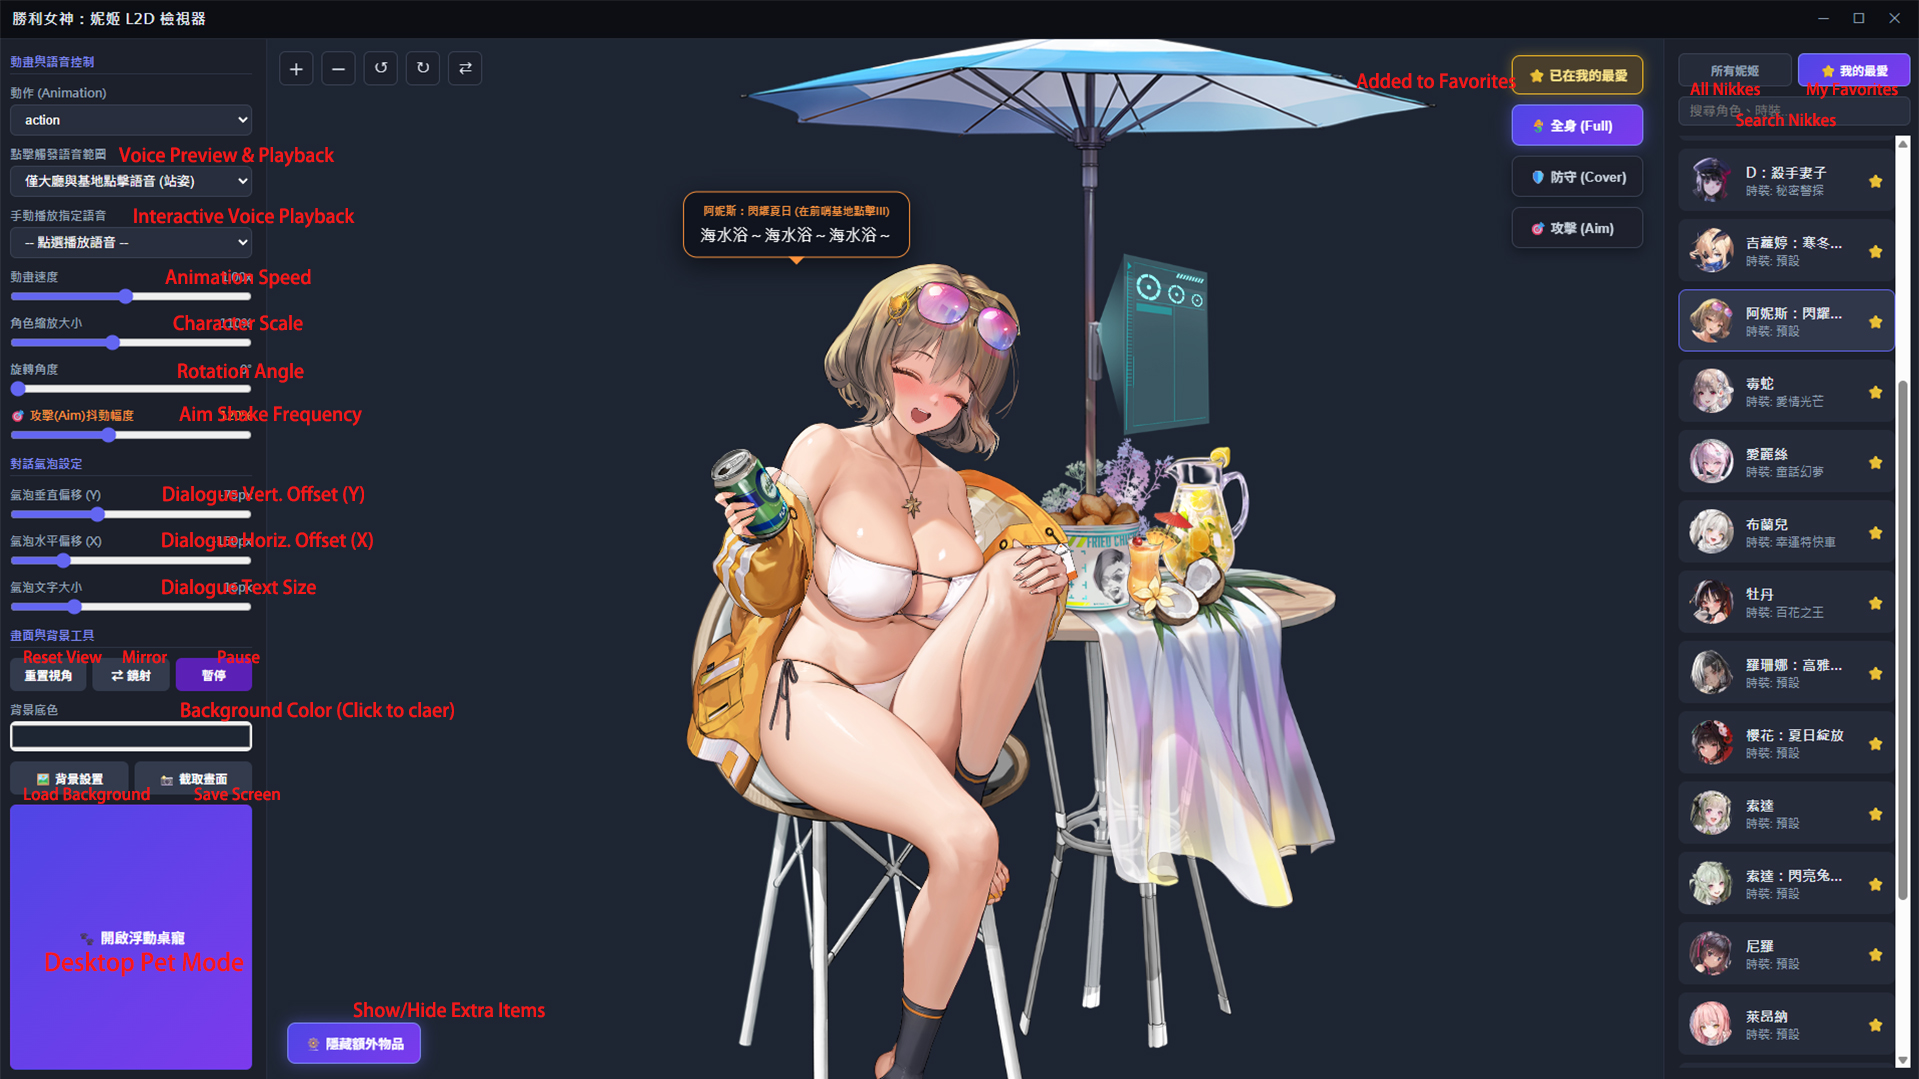
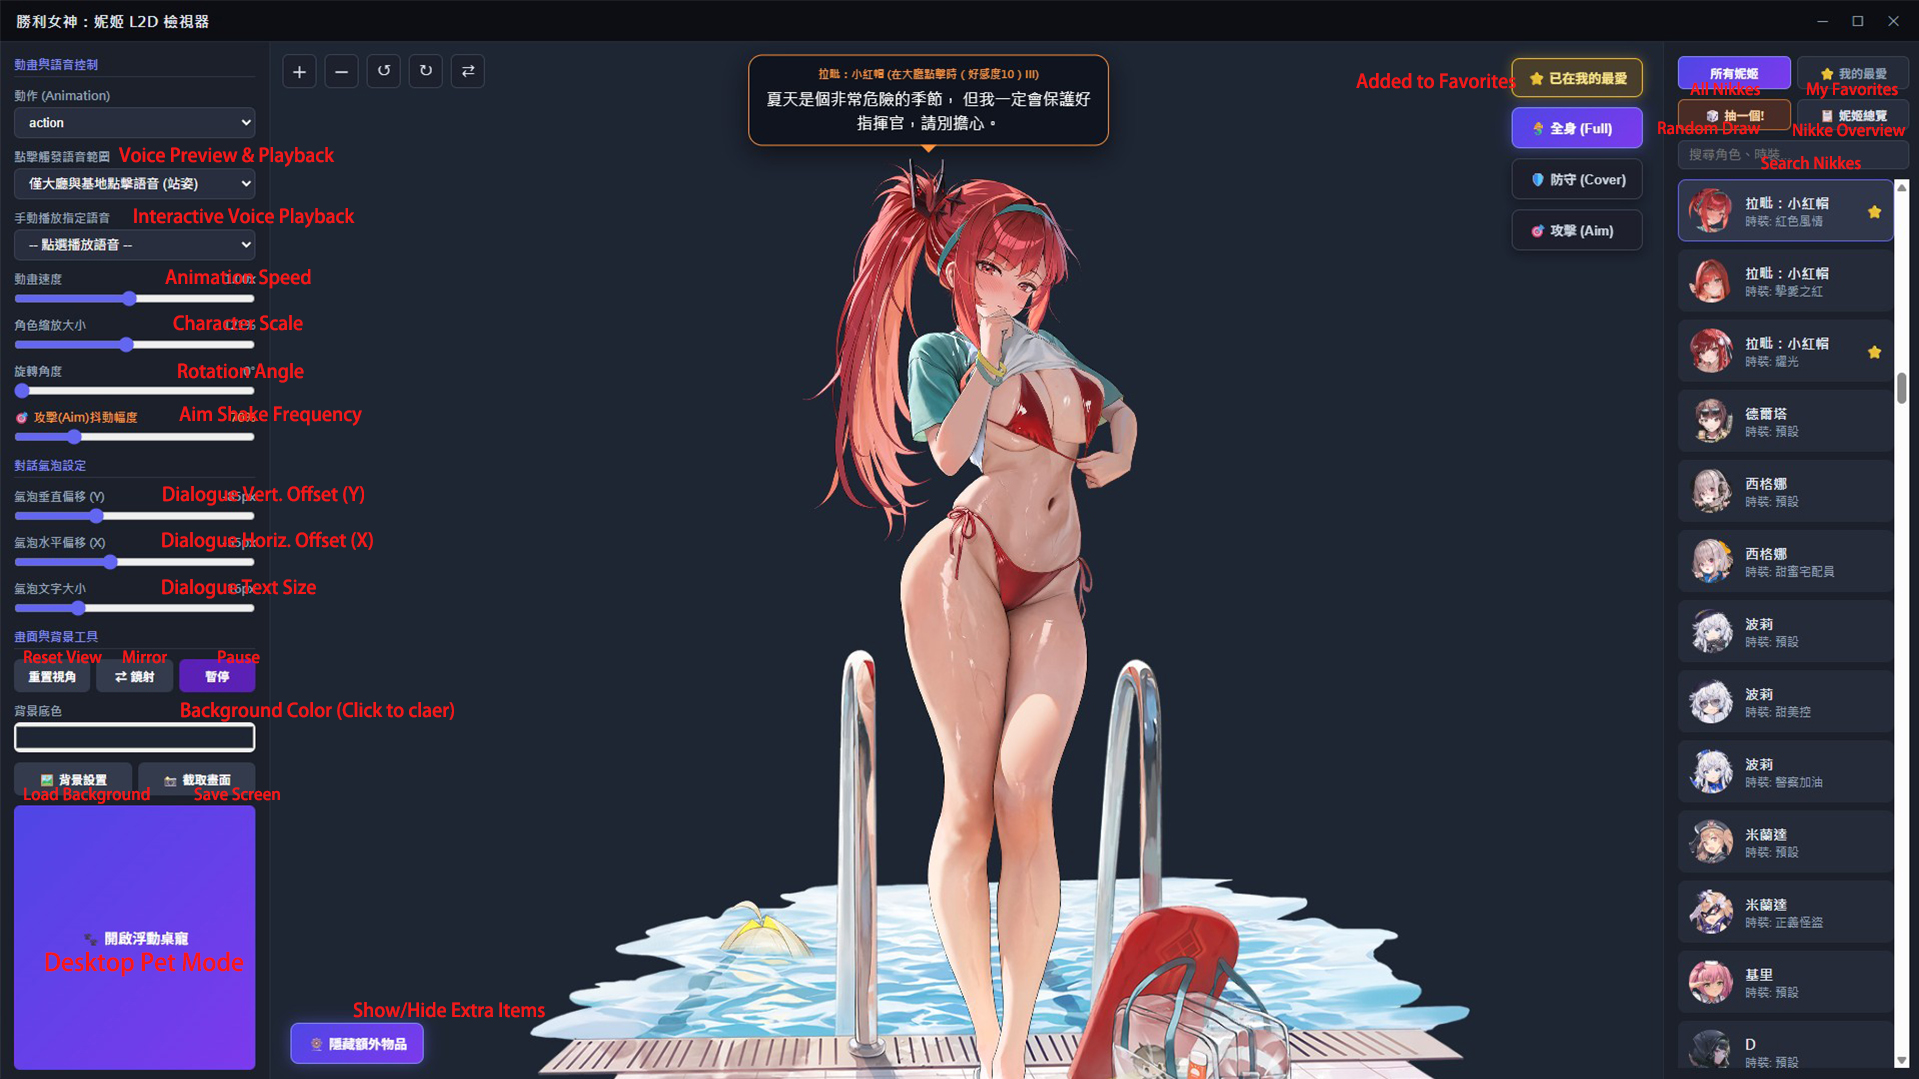
Ver1.2.0 update

diff --git a/README.md b/README.md
@@ -43,19 +43,23 @@
 * **智慧滑鼠穿透**：一鍵隱藏主控台，讓妮姬直接置頂站在 Windows 桌面上！滑鼠移到透明區域時可直接穿透點擊後方桌面圖示或視窗；移到妮姬身上時則可拖曳位置或點擊互動。
 * **定時主動觸發表情/動作**：桌寵模式下每隔 15~20 秒會自動隨機變換表情（`expression_X`）或執行換彈/射擊動作。
 * **滑鼠游標跟隨瞄準（攻擊模式桌寵）**：在攻擊姿態下進入桌寵模式，妮姬會即時偵測全局滑鼠座標（`aim_x` / `aim_y`），隨著你的滑鼠游標轉動身體與槍口！
-* **桌寵模式右鍵選單**：在浮動桌寵模式下，直接對妮姬點擊滑鼠右鍵即可彈出「姿態模式切換選單」，無須返回主控台即可隨時切換「全身 (Full) / 防守 (Cover) / 攻擊 (Aim)」，並具備自動縮放補償與螢幕邊界防呆鎖定。
+* **桌寵模式右鍵選單**：在浮動桌寵模式下，直接對妮姬點擊滑鼠右鍵即可彈出選單，無須返回主控台即可隨時切換「全身 (Full) / 防守 (Cover) / 攻擊 (Aim)」；「額外物品顯示」區塊，支援無物品自動停用、單組物品開關與多組物品一鍵直選。
 
 ![透明桌寵模式展示](./docs/demo_desktop_pet.gif)
 ![透明桌寵模式展示2](./docs/demo_desktop_pet2.gif)
 ![透明桌寵模式展示3](./docs/demo_desktop_pet3.gif)
-![桌寵模式右鍵展示](./docs/right-click_menu.gif)
+![桌寵模式右鍵展示](./docs/right-click_menu2.gif)
 
 ### 5. 畫面工具與「⭐ 我的最愛」收藏系統
 * **畫面自由變換**：支援縮放大小 (25%-250%)、360° 自由旋轉、左右鏡射翻轉、播放速度調整 (0.1x-2.0x)。
 * **自訂背景與高畫質截圖**：內建 40 張預設背景素材，並提供獨立的「🖼 背景圖片設置」面板（支援背景載入、取消背景、X/Y 軸水平與垂直移動、縮放及 360° 旋轉即時預覽），亦可切換純色背景底色，並一鍵將當前合成畫面匯出為高畫質 PNG 截圖。
 * **最愛收藏與設定自動記憶**：可將喜愛的妮姬與時裝加入「⭐ 我的最愛」分頁快速篩選；所有滑桿參數與視角位置皆會即時自動儲存。
+* **新增「🎲 抽一個!」隨機抽選功能**：於右側分頁按鈕下方新增隨機抽選功能，點擊即可隨機展示一名妮姬。
+* **新增「📋 妮姬總覽」頭像牆功能**：點擊可開啟可捲動總覽視窗，滑鼠懸浮於頭像上方會即時顯示角色名稱與時裝，方便透過頭像快速找人切換。
 
 ![背景模組展示](./docs/custom_background.gif)
+![抽一個功能展示](./docs/demo_random_draw.gif)
+![妮姬總覽展示](./docs/demo_overview.gif)
 
 ---
 
@@ -64,7 +68,7 @@
 本工具已內建自動化環境配置，**您不需要手動安裝 Node.js 或輸入任何指令**，下載後直接點擊批次檔即可使用！
 
 ### 方式 A：下載完整懶人包（推薦一般使用者，解壓即玩）
-1. 點擊本頁面右側的 **Releases（發行版）**，下載最新版的 **`NikkeDesktopViewer_v1.1.rar`** (包含所有分割檔)。
+1. 點擊本頁面右側的 **Releases（發行版）**，下載最新版的 **`NikkeDesktopViewer_v1.2.rar`** (包含所有分割檔)。
 2. 解壓縮至電腦任意位置。
 3. 雙擊資料夾內的 **`啟動檢視器.bat`** 即可立即開啟檢視器！
 
@@ -81,15 +85,17 @@
 ### 💃 妮姬收錄日誌 (Character Roster Log)
 * **`2026/11/01`**：已收錄至 **2023 年為止**所有上線妮姬（含時裝）。
 * **`2026/11/05`**：已收錄至 **2024 年為止**所有上線妮姬（含時裝）。
+* **`2026/11/25`**：已收錄至 **2025 年為止**所有上線妮姬（含時裝）。
 
 ### 🛠 專案版本日誌 (Project Version History)
 * **`Ver 1.0.0` (2026/11/01) — 初始版本發布**
 * **`Ver 1.1.0` (2026/11/05) — 功能擴充與體驗優化**
-  * **旋轉拖曳與跨姿態定位修正**：修正立繪在套用旋轉角度（0°~360°）時拖曳方向未與滑鼠同步的 Bug，並加入跨姿態切換自動縮放補償與螢幕邊界防呆鎖定。
-  * **進階背景設置面板 & 內建背景庫**：新增獨立的「🖼 背景圖片設置」面板（支援背景載入、取消背景、X/Y 軸位移、縮放與 360° 旋轉即時預覽），並內建 40 張預設背景素材。
-  * **新增「🎡 顯示/隱藏額外物品」功能**：於展示區左下角新增額外物件開關按鈕，支援一鍵顯示或隱藏部分妮姬的專屬大型背景物件（如珠寶櫃、販賣機等）。
-  * **桌寵模式右鍵選單**：在浮動桌寵模式下，對妮姬點擊滑鼠右鍵即可彈出「姿態模式切換選單」，無須返回主控台即可直接切換「全身 (Full) / 防守 (Cover) / 攻擊 (Aim)」。
-  * **動畫過渡優化**：修復桌寵模式下定時自動觸發動作時的部件殘影問題。
+* **`Ver 1.2.0` (2026/11/25) — 多重物件支援、空間瘦身與快速選角工具**
+  * **多組額外物品獨立切換**：修復擁有多組互斥皮膚（Skin）的模型（如「娜由塔：無為」Cover 型態）開啟額外物品時因圖層重疊導致的顯示異常，移除疊加衝突並改為支援逐組獨立輪切。
+  * **桌寵右鍵選單擴充**：於浮動桌寵模式的右鍵選單「攻擊 (Aim)」下方新增「額外物品顯示」區塊，支援無物品自動停用、單組物品開關與多組物品一鍵直選。
+  * **同角色時裝共用語音優化**：重構語音讀取路徑解析邏輯，同妮姬之不同時裝資料夾會自動共用主角色資料夾內的 `voices` 語音檔（並相容保留專屬語音之特殊時裝），大幅縮減專案整體體積。
+  * **新增「🎲 抽一個!」隨機抽選功能**：於右側分頁按鈕下方新增隨機抽選功能，點擊即可隨機展示一名妮姬，並於畫面上方以氣泡淡入淡出動畫彈出抽選結果提示。
+  * **新增「📋 妮姬總覽」頭像牆功能**：點擊可開啟每列 15 位圓形頭像的可捲動總覽視窗，滑鼠懸浮於頭像上方會即時顯示角色名稱與時裝，方便透過頭像快速找人切換。
 
 ---
 
@@ -98,18 +104,19 @@
 ```text
 NikkeDesktopViewer/
 ├── assets/          
-│   ├── background/             # 存放預設背景圖片(.png)
-│   └── characters/             # 各妮姬 Spine 立繪 (.skel/.atlas/.png)、語音與 config.json
+│   ├── background/              # 存放預設背景圖片(.png)
+│   └── characters/              # 各妮姬 Spine 立繪 (.skel/.atlas/.png)、語音與 config.json
 ├── css/style.css               # 介面與桌寵模式樣式表
 ├── js/
-│   ├── app.js                  # UI 控制
-│   ├── spineManager.js         # Spine 4.0/4.1 雙引擎渲染、多軌道動作與物理抖動核心
-│   ├── lipSyncManager.js       # Web Audio 即時音量分析與自動對嘴模組
-│   ├── settingsManager.js      # 使用者偏好設定即時記憶模組
-│   ├── rightClickManager.js    # 桌寵模式右鍵事件模組
-│   ├── interactionManager.js   # 點擊互動邏輯模組
-│   ├── characterListManager.js # 角色最愛分頁管理模組
-│   └── backgroundManager.js    # 加載背景模組
+│   ├── app.js                   # UI 控制
+│   ├── spineManager.js          # Spine 4.0/4.1 雙引擎渲染、多軌道動作與物理抖動核心
+│   ├── lipSyncManager.js        # Web Audio 即時音量分析與自動對嘴模組
+│   ├── settingsManager.js       # 使用者偏好設定即時記憶模組
+│   ├── rightClickManager.js     # 桌寵模式右鍵選單模組（姿態與額外物品切換
+│   ├── interactionManager.js    # 點擊互動、對話氣泡與跨時裝共用語音解析模組
+│   ├── characterListManager.js  # 角色清單搜尋與我的最愛分頁管理模組
+│   └── backgroundManager.js     # 背景圖片載入、變換設置與截圖合成模組
+│   └── rosterToolsManager.js    # 隨機抽選與妮姬頭像總覽視窗模組
 ├── libs/                       # 本地 Spine WebGL 4.0 & 4.1 運行庫
 ├── lip_sync_blacklist.json     # 口型追蹤衝突例外設定表 (支援熱重載)
 ├── main.js                     # Electron 主程序 (無邊際透明視窗、穿透與全局游標追蹤)

diff --git a/README_EN.md b/README_EN.md
@@ -42,19 +42,23 @@ Switch seamlessly between Standing, Cover, and Aim postures for each character. 
 * **Smart Click-Through**: Pin your favorite Nikke directly onto your Windows desktop! Transparent areas automatically pass mouse clicks through to your desktop icons and windows, while hovering over the character allows dragging and interaction.
 * **Auto Idle Expressions**: Automatically plays random `expression_X` animations or reload/fire actions every 15–20 seconds in Desktop Pet mode.
 * **Global Cursor Aim Tracking**: In Aim + Desktop Pet mode, the character dynamically tracks your mouse cursor across the screen (`aim_x` / `aim_y`), turning her body to aim wherever your cursor moves!
-* **Desktop Pet Right-Click Context Menu**: Right-click directly on the character in Desktop Pet mode to open a pose-switching menu, allowing seamless transitions between Full Body (Standing), Cover, and Aim modes without returning to the main console, complete with automatic scale compensation and screen-boundary clamping.
+* **Desktop Pet Right-Click Context Menu**: Right-click directly on the character in Desktop Pet mode to open a menu, allowing seamless transitions between Full Body (Standing), Cover, and Aim modes without returning to the main console；"Extra Items", supporting disabled states, single-item toggles, and direct selection for multi-skin models.
 
 ![Desktop Pet Demo](./docs/demo_desktop_pet.gif)
 ![Desktop Pet Demo 2](./docs/demo_desktop_pet2.gif)
 ![Desktop Pet Demo 3](./docs/demo_desktop_pet3.gif)
-![Desktop Pet Right-Click Demo](./docs/right-click_menu.gif)
+![Desktop Pet Right-Click Demo](./docs/right-click_menu2.gif)
 
 ### 5. Canvas Tools & Favorites System
 * **Transform Controls**: Zoom (25%–250%), 360° Rotation, Horizontal Mirroring, and Animation Speed control (0.1x–2.0x).
 * **Custom Background & PNG Screenshot**: Includes 40 built-in background presets and a dedicated "🖼 Background Settings" popover panel (supporting load/clear background, real-time X/Y offset sliders, zoom, and 360° rotation preview), solid background color picker, and one-click high-resolution PNG screenshot export.
 * **Favorites & Auto-Save**: Bookmark your favorite Nikkes and costumes under the "⭐ Favorites" tab. All slider settings and camera positions are saved automatically.
+* **"🎲 Random Draw" Feature**: Added a random character draw button below the roster tabs that switches to a random Nikke.
+* **"📋 Nikke Overview" Avatar Grid**: Added a scrollable overview modal displaying all Nikkes.
 
 ![Custom Background Demo](./docs/custom_background.gif)
+![Random Draw Demo](./docs/demo_random_draw.gif)
+![Overview Demo](./docs/demo_overview.gif)
 
 ---
 
@@ -80,12 +84,14 @@ You **do NOT need to manually install Node.js** or run any terminal commands!
 ### 💃 Character Roster Log
 * **`2026/11/01`**: Added all released Nikkes (including costumes) **up to 2023**.
 * **`2026/11/05`**: Added all released Nikkes (including costumes) **up to 2024**.
+* **`2026/11/25`**: Added all released Nikkes (including costumes) **up to 2025**.
 
 ### 🛠 Project Version History
 * **`Ver 1.0.0` (2026/11/01) — Initial Release**
 * **`Ver 1.1.0` (2026/11/05) — Feature Expansion & UX Improvements**
-  * **Rotation Dragging & Pose Transition Fix**: Fixed the cursor-dragging direction offset bug when the character is rotated (0°–360°), and added automatic scale compensation and screen-boundary clamping when switching poses.
-  * **Advanced Background Settings Panel & Built-in Backgrounds**: Added a dedicated "🖼 Background Settings" popover panel (supporting load/clear background, X/Y offset sliders, zoom, and 360° rotation with real-time preview) along with 40 built-in background presets.
-  * **"🎡 Show/Hide Extra Items" Toggle**: Added a toggle button at the bottom-left of the stage to display or hide character-specific background props/objects (e.g., Quency's jewelry case, Viper's vending machine).
-  * **Desktop Pet Right-Click Context Menu**: Right-clicking on the character in Desktop Pet mode now opens a context menu to switch directly between Full Body (Standing), Cover, and Aim modes without returning to the main console.
-  * **Animation Transition Polish**: Fixed part ghosting/afterimage artifacts during periodic auto-triggered animations in Desktop Pet mode.
+* **`Ver 1.2.0` (2026/11/25) — Multi-Skin Support, Storage Optimization & Quick Roster Tools**
+  * **Independent Multi-Skin Switching**: Fixed visual glitches on models with multiple mutually exclusive skins (e.g., Nayuta: Wuwei Cover) by replacing full skin stacking with independent per-skin cycling.
+  * **Expanded Desktop Pet Context Menu**: Added an "Extra Items" section below "Aim" in the Desktop Pet right-click menu, supporting disabled states, single-item toggles, and direct selection for multi-skin models.
+  * **Shared Voice Assets Across Costumes**: Refactored voice path resolution so costume folders automatically fall back to the base character's `voices` directory (while preserving unique voice lines for special costumes), significantly reducing overall project size.
+  * **"🎲 Random Draw" Feature**: Added a random character draw button below the roster tabs that switches to a random Nikke and displays a speech-bubble-style toast notification at the top center.
+  * **"📋 Nikke Overview" Avatar Grid**: Added a scrollable overview modal displaying all Nikkes in a 15-column circular avatar grid with hover tooltips showing character names and costumes for quick visual browsing.
